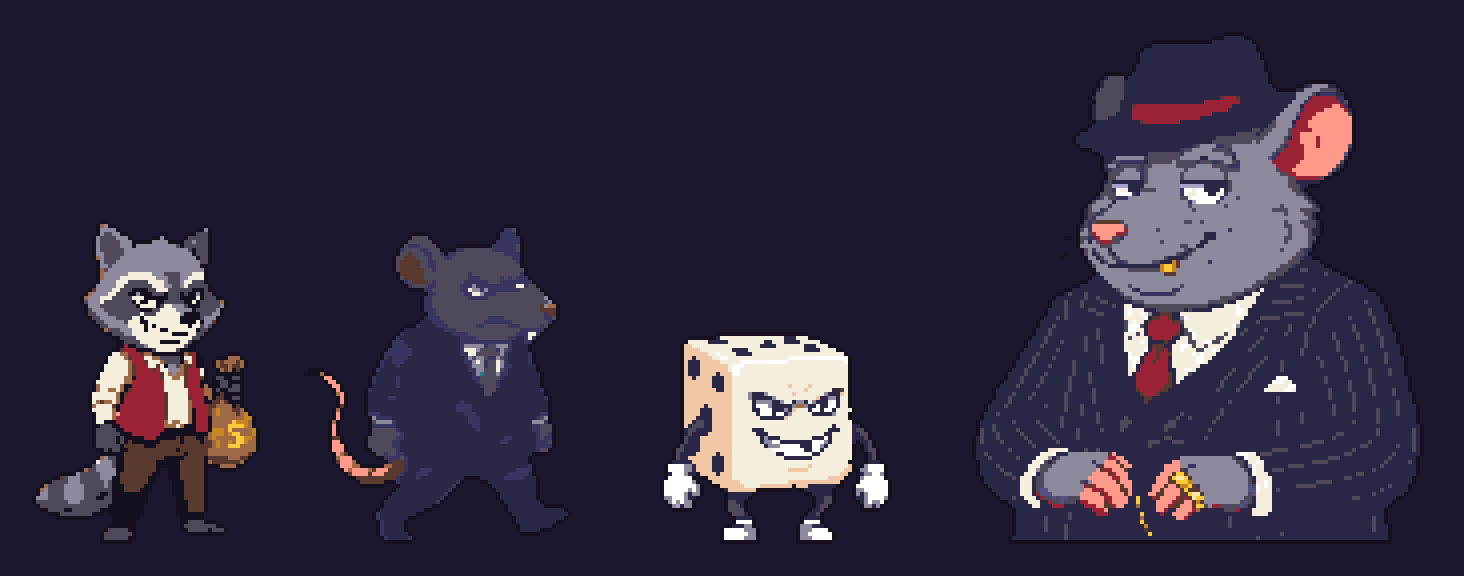
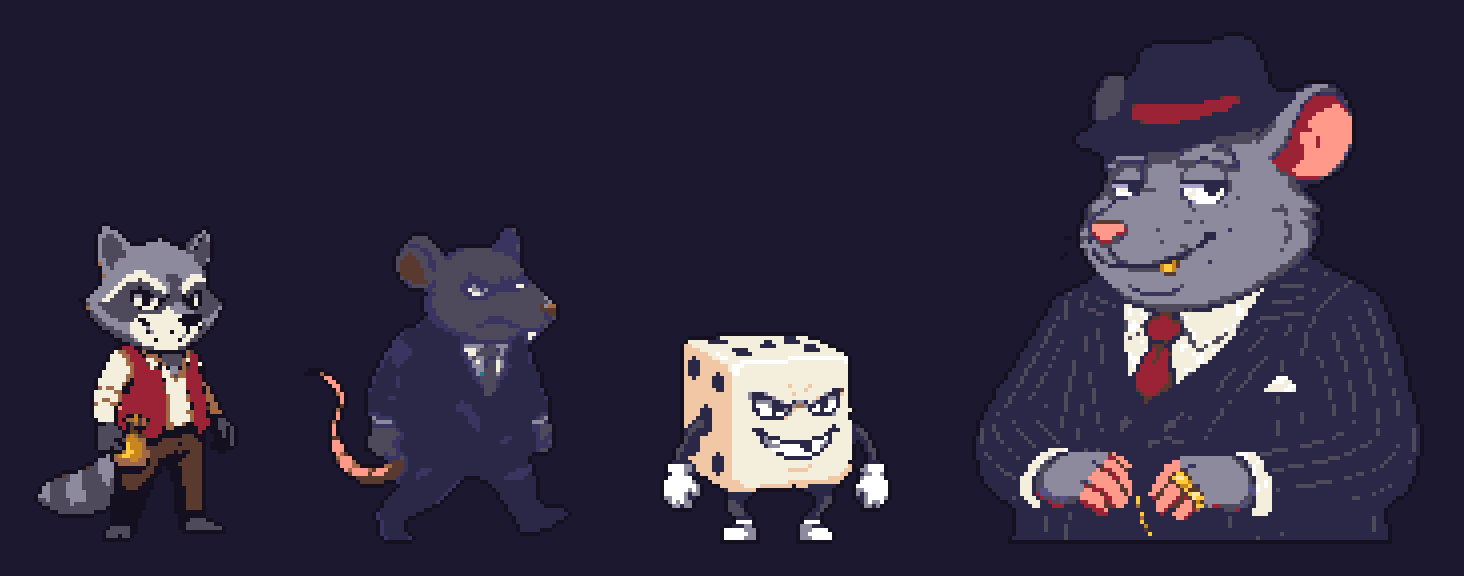
feat(devlog): redraw rocco with the belt pouch in devlog images

Changed region(s): [[0.0307, 0.4062, 0.1844, 0.9062], [0.123, 0.875, 0.1537, 0.9375], [0.0615, 0.9062, 0.0922, 0.9375]]

diff --git a/src/content/devlog/raccoon-heist-devlog-01.md b/src/content/devlog/raccoon-heist-devlog-01.md
@@ -7,7 +7,7 @@ tags: [raccoon-heist, devlog]
 game: raccoon-heist
 number: 1
 cover: "/devlog/devlog-01-cover.png"
-coverAlt: "Rocco the raccoon holds a coin sack on the casino carpet between two rat thugs in black suits, while a dice goon hops past slot machines and a roulette table."
+coverAlt: "Rocco the raccoon, a coin pouch on his belt, stands on the casino carpet between two rat thugs in black suits, while a dice goon hops past slot machines and a roulette table."
 coverLabel: "Concept art"
 draft: false
 ---
